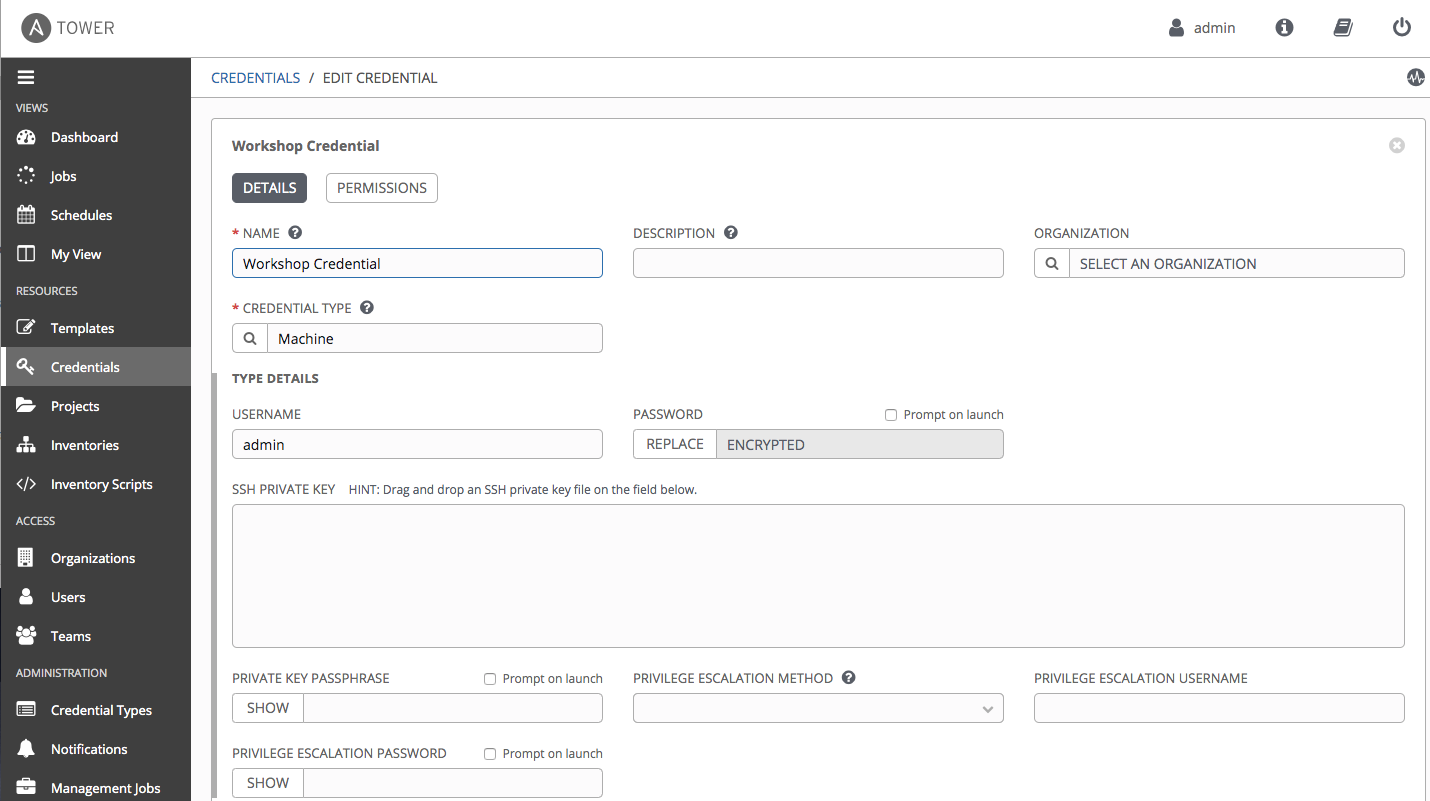
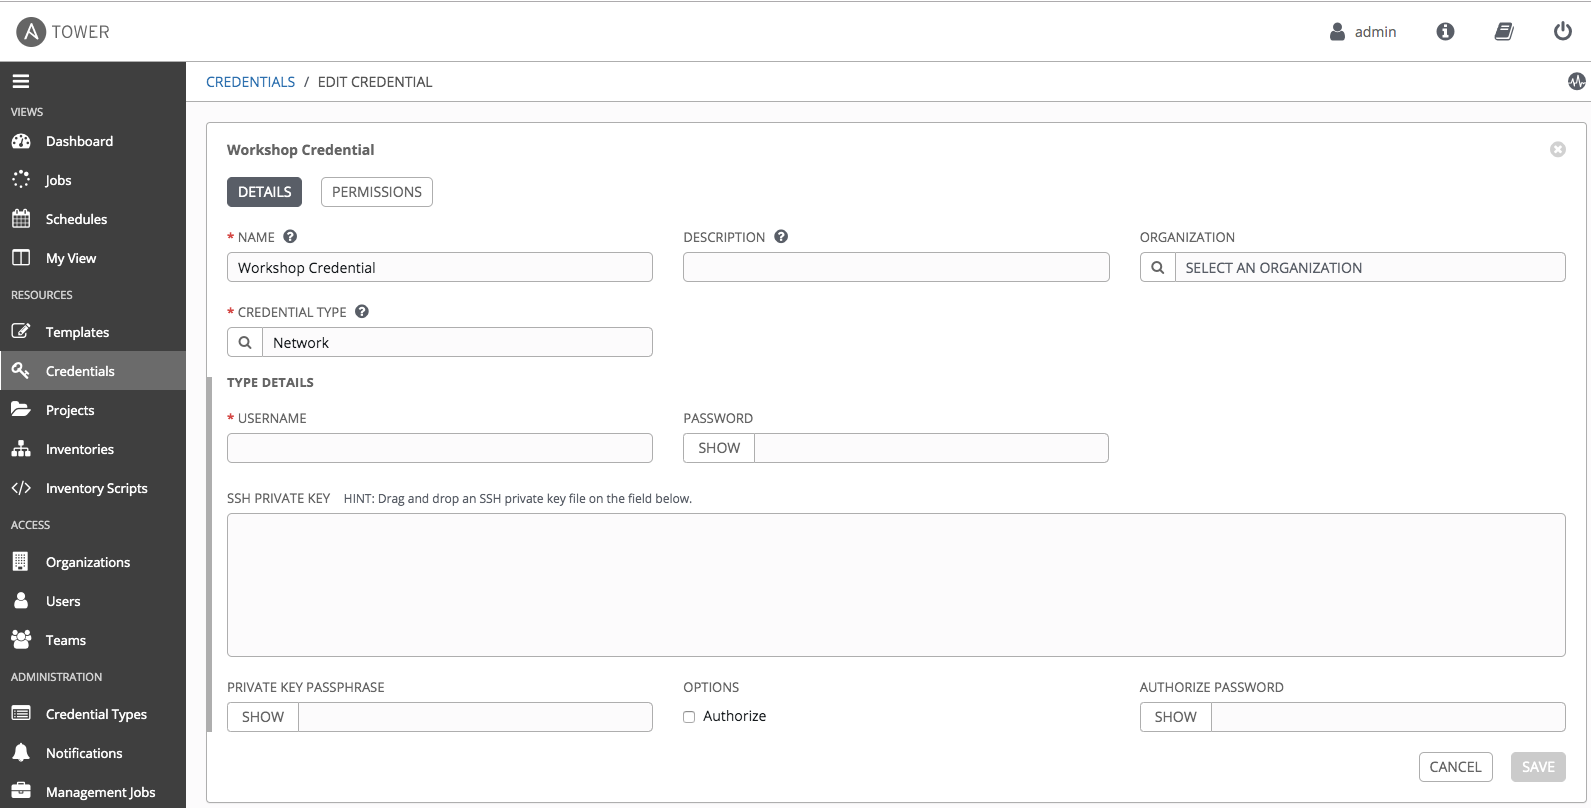
- show nventory entry for the web servers - change credential for F5 to type network, we then don’t need to specify username/password in the playboo - use keyword provider in the playbook

diff --git a/exercises/ansible_f5/4.1-tower-job-template/README.md b/exercises/ansible_f5/4.1-tower-job-template/README.md
@@ -6,7 +6,7 @@
 - [Objective](#objective)
 - [Guide](#guide)
   - [Step 1: Create a Credential](#step-1-create-a-credential)
-  - [Step 2: Create/Migrate an Inventory](#step-2-createmigrate-an-inventory)
+  - [Step 2: Migrate an Inventory](#step-2-migrate-an-inventory)
   - [Step 3: Create a Project](#step-3-create-a-project)
   - [Step 4: Create a Job Template](#step-4-create-a-job-template)
   - [Step 5: Launch the Job Template](#step-5-launch-the-job-template)
@@ -33,12 +33,12 @@ To run an Ansible Playbook in Ansible Tower we need to create a **Job Template**
 2. Click on the green ![templates link](images/add.png) button to create a new Credential
 
 3. Fill out the credential parameters as follows, and click `Save`
+   - Credential type: Network
+  
   ![workshop credential link](images/ws_credential.png)
 
-## Step 2: Create/Migrate an Inventory
-> TBD: we will decide whether we will move/migrate Ansible inventory into Ansible Tower manually, or it's taken care by Provisioner
+## Step 2: Migrate an Inventory
 > Here we just showcase one way to migrate an inventory file from the Ansible Tower control node (awx-manage)
-
 
 1. In the Ansible web UI, navigate to the :guilabel:`Inventories` section using the left navigation bar.
 2. Click on the green ![templates link](images/add.png) button to create an empty inventory `Workshop Inventory`.
@@ -56,6 +56,12 @@ To run an Ansible Playbook in Ansible Tower we need to create a **Job Template**
 7. Click on the Group `lb`, and then click on the button labeled :guilabel:`Hosts`, you will see the host `f5`.
 The BIG-IP host `f5` in the inventory will have variables assigned to it with the respective values. Our playbook will refer to these inventory varibales later in the lab.
   ![host link](images/host.png)
+
+8. Click on `Workshop Inventory` on the top to return to inventoy
+   then click on the button labeled :guilabel:`Groups`
+   Click on the Group `webservers`, and then click on the button labeled :guilabel:`Hosts`. You will see two hosts: `host1` and `host2`
+   Click on `host1`, and you will see the variables assigned to it with the respective values.
+   ![host link](images/server1.png)
 
 ## Step 3: Create a Project
 1. In the Ansible web UI, navigate to the :guilabel:`Projects` section using the left navigation bar.
@@ -83,49 +89,41 @@ For reference, here is one of the playbooks that was imported and that will be e
   gather_facts: false
 
   tasks:
+    - name: Setting up provider values
+      set_fact:
+       provider:
+        server: "{{private_ip}}"
+        server_port: "8443"
+        validate_certs: "False"
+  
     - name: CREATE NODES
       bigip_node:
-        server: "{{private_ip}}"
-        user: "{{ansible_user}}"
-        password: "{{ansible_ssh_pass}}"
-        server_port: "8443"
+        provider: "{{provider}}"
         host: "{{hostvars[item].ansible_host}}"
         name: "{{hostvars[item].inventory_hostname}}"
-        validate_certs: "no"
       loop: "{{ groups['webservers'] }}"
 
     - name: CREATE POOL
       bigip_pool:
-        server: "{{private_ip}}"
-        user: "{{ansible_user}}"
-        password: "{{ansible_ssh_pass}}"
-        server_port: "8443"
+        provider: "{{provider}}"
         name: "http_pool"
         lb_method: "round-robin"
         monitors: "/Common/http"
         monitor_type: "and_list"
-        validate_certs: "no"
 
     - name: ADD POOL MEMBERS
       bigip_pool_member:
-        server: "{{private_ip}}"
-        user: "{{ansible_user}}"
-        password: "{{ansible_ssh_pass}}"
-        server_port: "8443"
+        provider: "{{provider}}"
         state: "present"
         name: "{{hostvars[item].inventory_hostname}}"
         host: "{{hostvars[item].ansible_host}}"
         port: "80"
         pool: "http_pool"
-        validate_certs: "no"
       loop: "{{ groups['webservers'] }}"
 
     - name: ADD VIRTUAL SERVER
       bigip_virtual_server:
-        server: "{{private_ip}}"
-        user: "{{ansible_user}}"
-        password: "{{ansible_ssh_pass}}"
-        server_port: "8443"
+        provider: "{{provider}}"
         name: "vip"
         destination: "{{private_ip}}"
         port: "443"
@@ -133,7 +131,6 @@ For reference, here is one of the playbooks that was imported and that will be e
         all_profiles: ['http','clientssl','oneconnect']
         pool: "http_pool"
         snat: "Automap"
-        validate_certs: "no"
 
     - name: PRINT OUT WEB VIP FOR F5
       debug:
@@ -159,10 +156,13 @@ For reference, here is one of the playbooks that was imported and that will be e
     |  Inventory |  Workshop Inventory |
     |  Project |  Workshop Project |
     |  Playbook |  create_vs.yml |
-    |  Credential |  Workshop Credential |
+    |  Credential |  Workshop Credential (From the Credential type select ‘Network’) |
+    
+    From the Credential type select ‘Network’, then seletct `Workshop Credential`
+    ![network credential](images/network.png) 
 
-
-    Here is a screenshot of the job template parameters filled out.
+  
+    Here is a screenshot of the job template parameters filled out:
 
     ![create_vs job template](images/create_vs.png)
 
